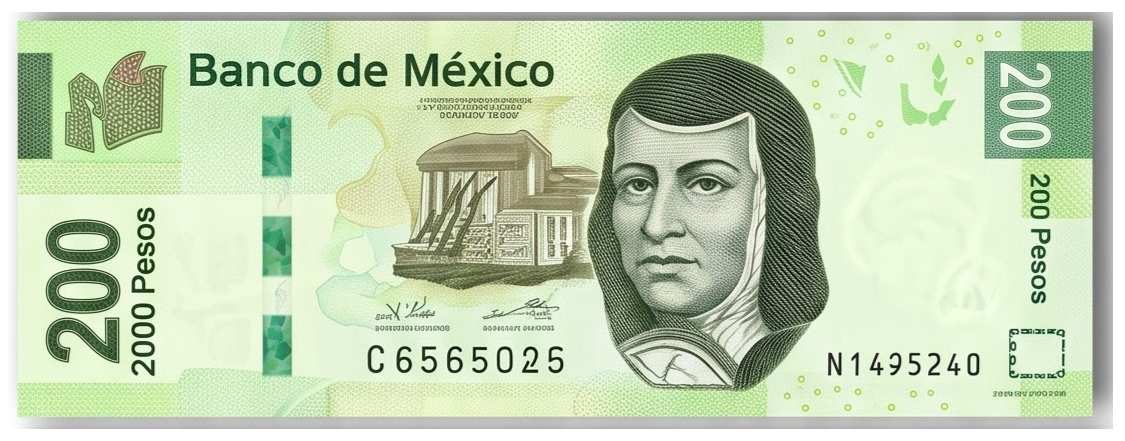
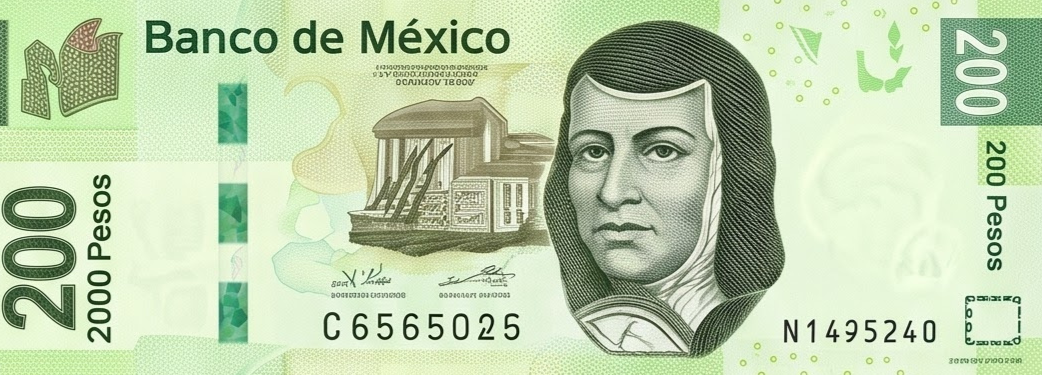
Recorta más ajustado y centra las fotos de billetes
El recorte anterior todavía dejaba un borde blanco/sombra visible. Ahora
se recorta un poco dentro del propio billete (sin perder legibilidad) y
se centra sobre el contenido real, con una proporción más alargada que
se parece más a un billete.

diff --git a/web/src/components/DialogoCobro.jsx b/web/src/components/DialogoCobro.jsx
@@ -181,7 +181,7 @@ export default function DialogoCobro({ abierto, resumen, onCancelar, onConfirmar
                   <img
                     src={imagen}
                     alt={`Billete de ${dinero(valor)}`}
-                    className="w-24 h-9 object-cover rounded-sm bg-bg"
+                    className="w-24 aspect-[2.75] object-cover object-center rounded-sm bg-bg"
                     draggable="false"
                   />
                   <span className="text-[0.7rem] font-semibold text-text-muted [font-variant-numeric:tabular-nums] group-hover:text-primary">
